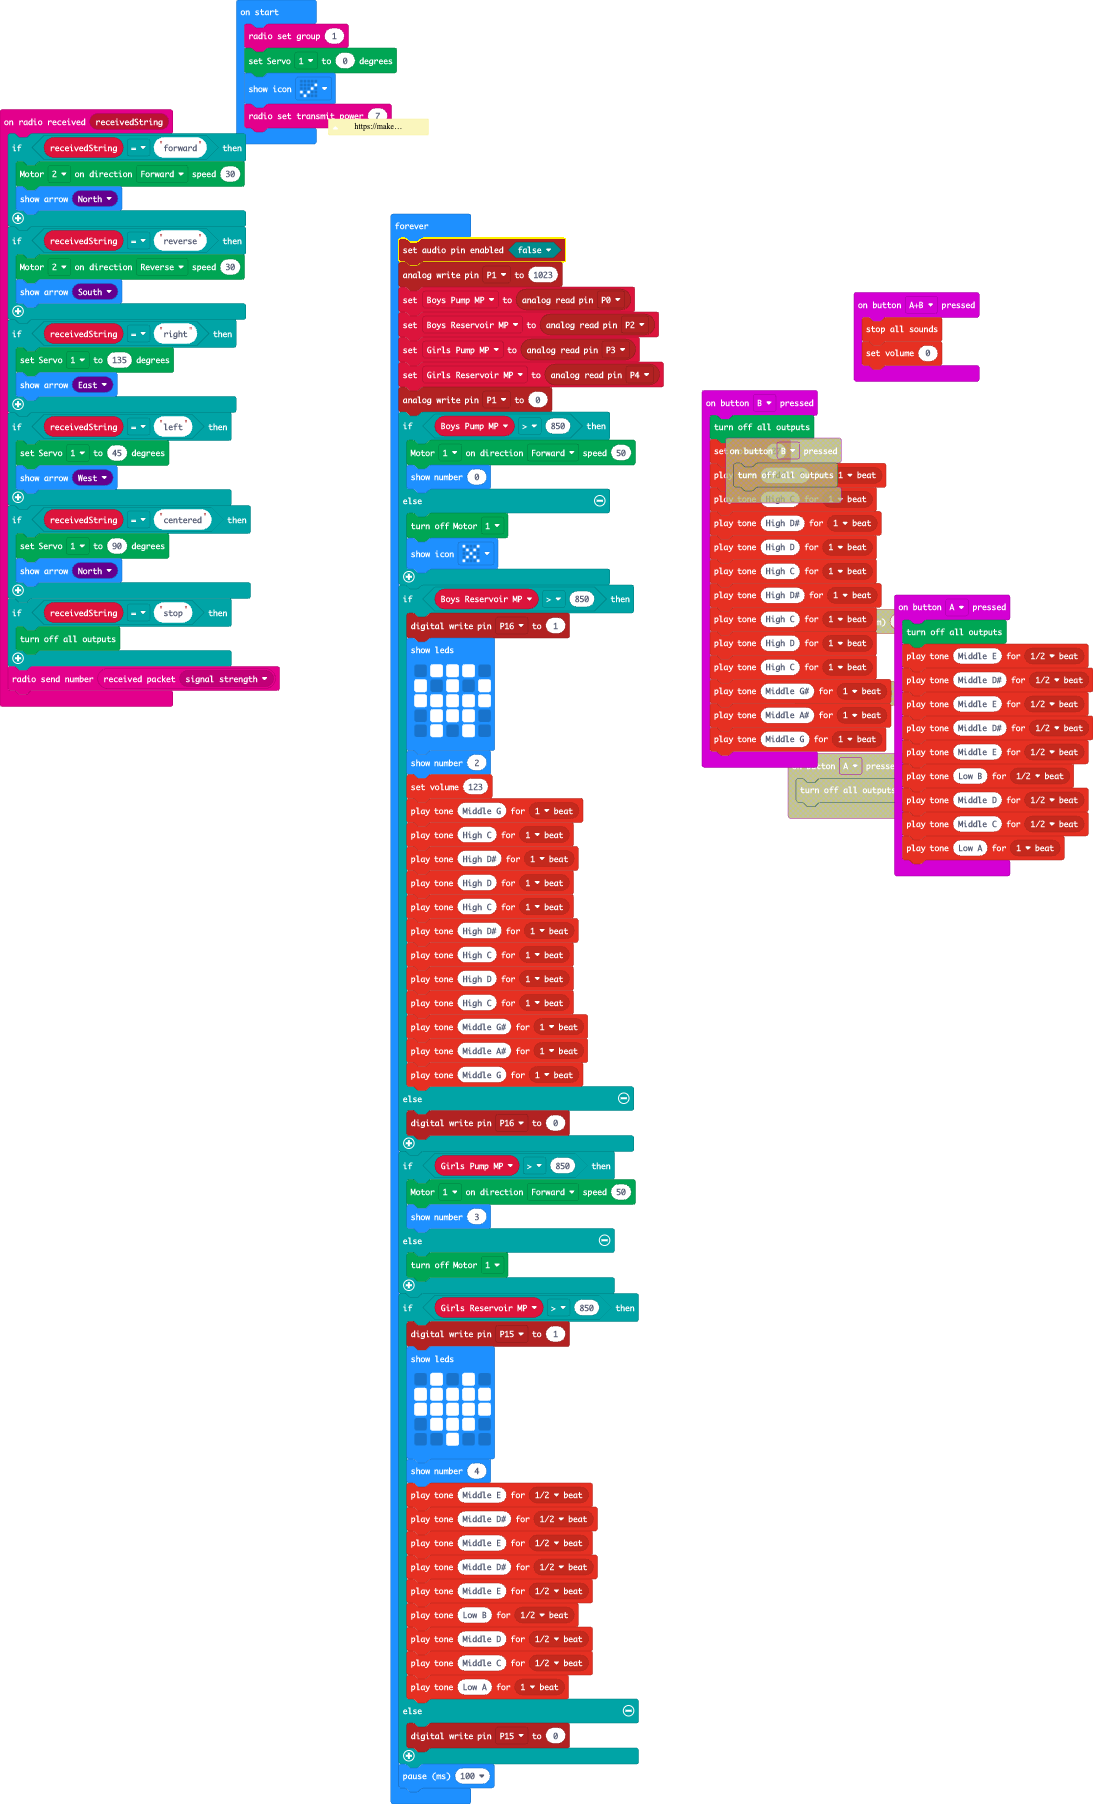
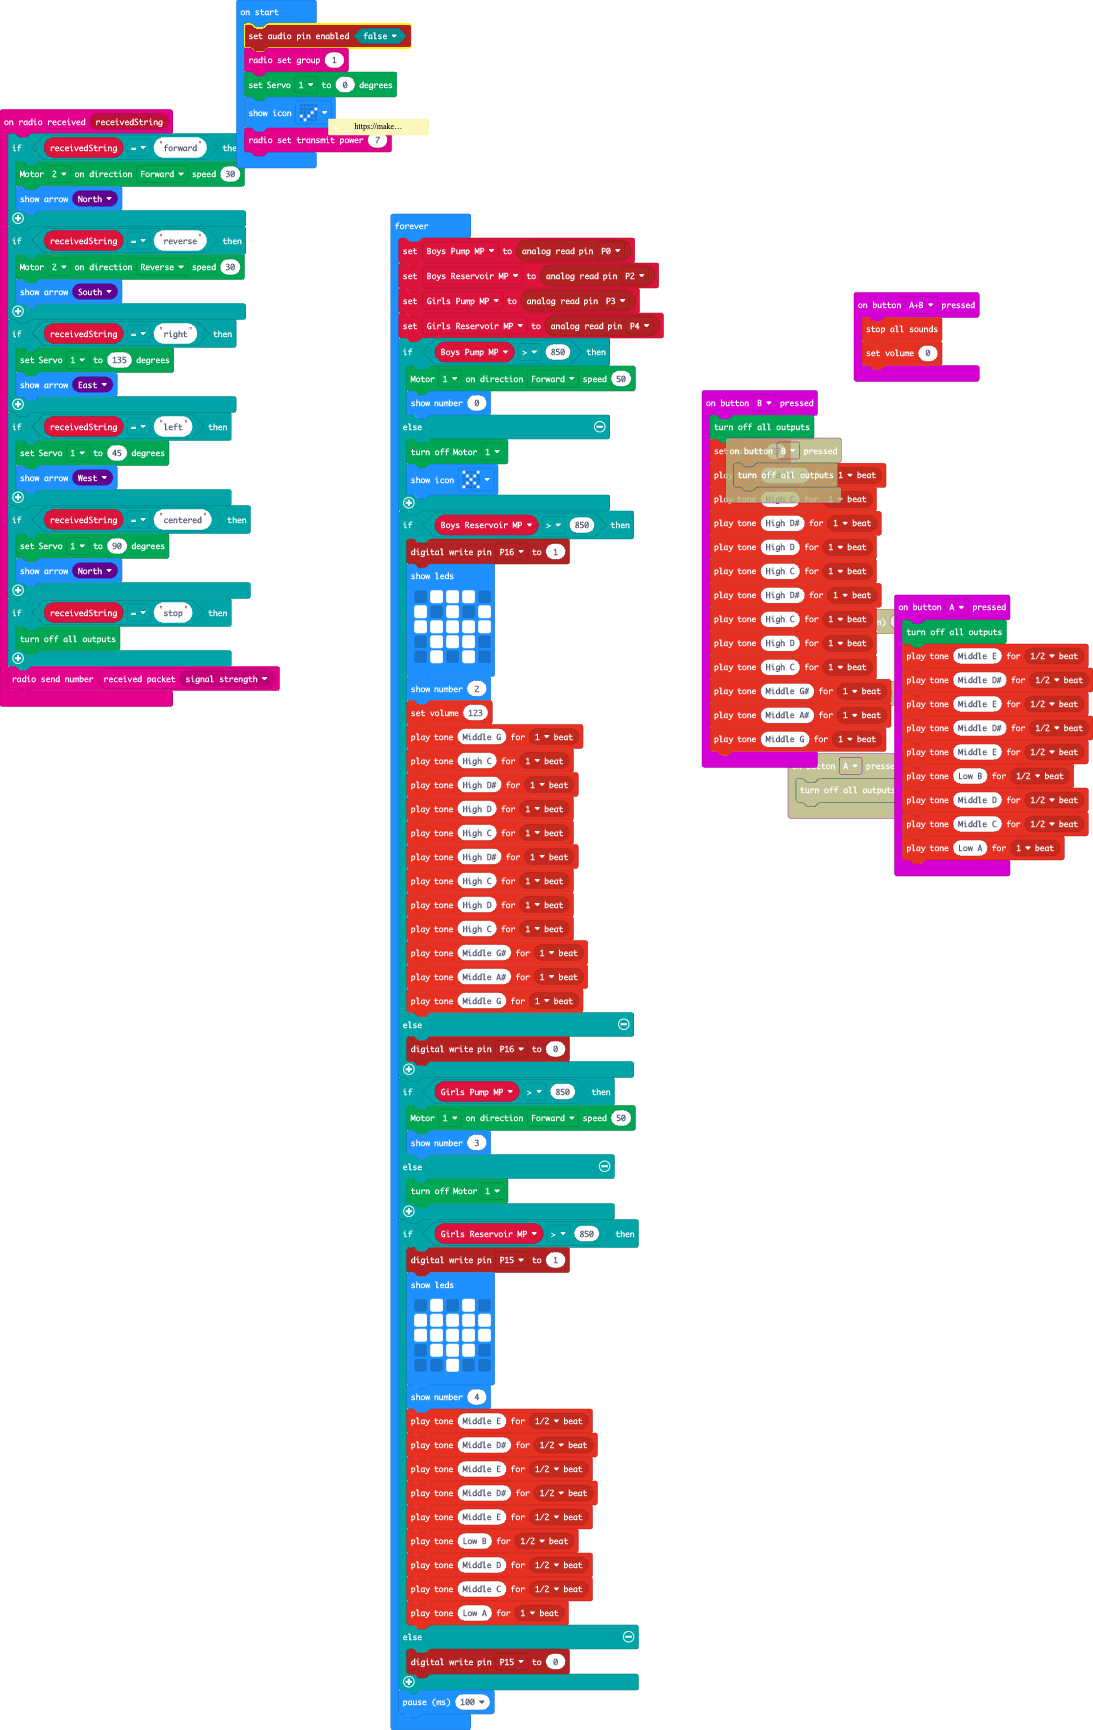
Update main.blocks, main.ts

Changed region(s): [[0.0, 0.0, 0.6221, 0.9988], [0.6221, 0.2185, 1.0, 0.5306], [0.7777, 0.1561, 0.9021, 0.2185]]

diff --git a/main.ts b/main.ts
@@ -63,18 +63,16 @@ let Girls_Reservoir_MP = 0
 let Girls_Pump_MP = 0
 let Boys_Reservoir_MP = 0
 let Boys_Pump_MP = 0
+pins.setAudioPinEnabled(false)
 radio.setGroup(1)
 Kitronik_Robotics_Board.servoWrite(Kitronik_Robotics_Board.Servos.Servo1, 0)
 basic.showIcon(IconNames.Yes)
 radio.setTransmitPower(7)
 basic.forever(function () {
-    pins.setAudioPinEnabled(false)
-    pins.analogWritePin(AnalogPin.P1, 1023)
     Boys_Pump_MP = pins.analogReadPin(AnalogPin.P0)
     Boys_Reservoir_MP = pins.analogReadPin(AnalogPin.P2)
     Girls_Pump_MP = pins.analogReadPin(AnalogPin.P3)
     Girls_Reservoir_MP = pins.analogReadPin(AnalogPin.P4)
-    pins.analogWritePin(AnalogPin.P1, 0)
     if (Boys_Pump_MP > 850) {
         Kitronik_Robotics_Board.motorOn(Kitronik_Robotics_Board.Motors.Motor1, Kitronik_Robotics_Board.MotorDirection.Forward, 50)
         basic.showNumber(0)
